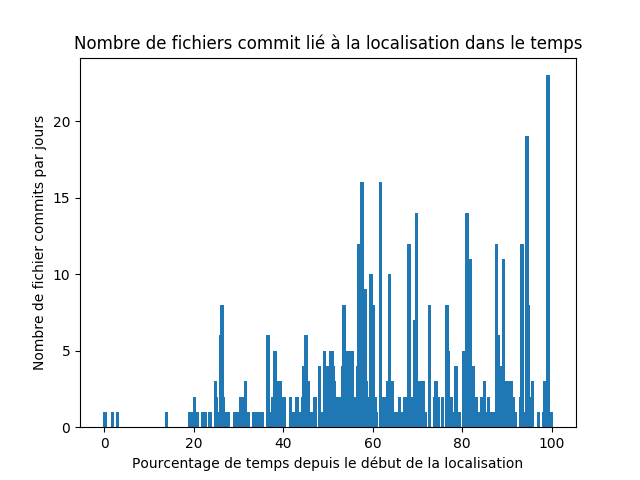
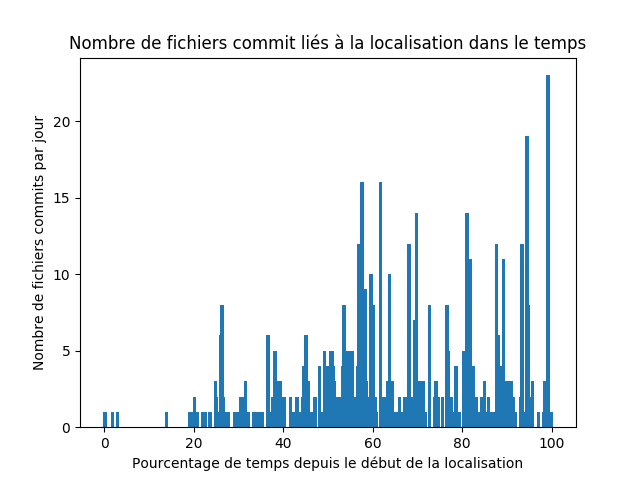
Added time analysis to the book

Changed region(s): [[0.0938, 0.0625, 0.9062, 0.125], [0.0312, 0.25, 0.0938, 0.5]]

diff --git a/gitStudy/graph_commit_time_mean.py b/gitStudy/graph_commit_time_mean.py
@@ -30,7 +30,7 @@ def parseDate(text):
 
 def parse():
     repositories = dict()
-    with open("./output/edition_dates_stared.txt") as dates_file:
+    with open("./output/edition_dates.txt") as dates_file:
         currentRepo = dict()
         currentFile = None
         for line in dates_file:
@@ -82,10 +82,10 @@ for i in tqdm(range(101)):
 
 # counts = {key:counts[key] for key in tqdm(counts,desc="Filtering") if counts[key]<1000}
 counts = mean_counts
-plt.title("Nombre moyen de fichier commit lié a la localisation dans le temps")
+plt.title("Nombre moyen de fichiers commit lié a la localisation dans le temps ")
 plt.xlabel("Pourcentage de temps depuis le début de la localisation")
-plt.ylabel("Nombre de fichier moyen commits par pourcent")
+plt.ylabel("Nombre moyen de fichiers commits par pourcent")
 plt.bar(counts.keys(),counts.values())
-plt.savefig("moyenne_commit_lie_a_la_localisation_dans_le_temps_star")
+plt.savefig("moyenne_commit_lie_a_la_localisation_dans_le_temps")
 plt.show()
 

diff --git a/gitStudy/graph_commit_time.py b/gitStudy/graph_commit_time.py
@@ -27,7 +27,7 @@ def parseDate(text):
 
 def parse():
     repositories = dict()
-    with open("./output/edition_dates_stared.txt") as dates_file:
+    with open("./output/edition_dates.txt") as dates_file:
         currentRepo = dict()
         currentFile = None
         for line in dates_file:
@@ -69,10 +69,10 @@ for rep in tqdm(repositories,desc="Counting"):
     counts.update(rep_counts)
 counts = {key:counts[key] for key in tqdm(counts,desc="Filtering") if counts[key]<1000}
 
-plt.title("Nombre de fichiers commit lié à la localisation dans le temps")
+plt.title("Nombre de fichiers commit liés à la localisation dans le temps")
 plt.xlabel("Pourcentage de temps depuis le début de la localisation")
-plt.ylabel("Nombre de fichier commits par jours")
+plt.ylabel("Nombre de fichiers commits par jour")
 plt.bar(counts.keys(),counts.values())
-plt.savefig("commit_lie_a_la_localisation_dans_le_temps_star")
+plt.savefig("commit_lie_a_la_localisation_dans_le_temps")
 plt.show()
 

diff --git a/book/model2020.md b/book/model2020.md
@@ -157,11 +157,37 @@ Avec ces valeurs, si on observe que la branche maximale a la même valeur que ma
 
 Nous avons également souhaité étudier la répartition des commits en fonction des auteurs : si le commit a été fait par un humain ou par Weblate. 
 Nous avons donc réalisé un digramme en boite à moustaches du pourcentage de répartion de commits de localisation réalisé par Weblate sur tous les projets. 
+
 ![](../assets/localisation/graph_moyenne.png)
+
 La moyenne est à 50%, le minimum est à 0% et le maximum à 95%. Cela représente donc un grand écart type. 
 
 Nous sommes encore une fois surpris d'avoir la moitié des commits de localisation réalisés par des humains, car nous attendions à un pourcentage
 assez faible, compte tenu de l'automatisation des commits par Weblate.
+
+Enfin nous avons souhaité analyser la répartition des commits dans le temps.
+Pour cela nous avons compté le nombre de commits lié a la localisation a chaque date de chaque projet, et fait en sorte
+de normaliser les comptes sur une echelle de 0 à 100, à 0 étant le premier commits detecté, à 100 le dernier detecté.
+Cela nous donnants le graphique suivant.
+
+![](../assets/localisation/commit_lie_a_la_localisation_dans_le_temps.png)
+
+On voit donc une répartition relativement disparate après une période de tampons où les projet ne versionne pas de travail lié a la localisation. 
+Et cela que ce soit sur les projet selectioné à travers weblate ou les projets applicant la l10n parmis les 1000 plus populaire sur github 
+représenté ci dessous:
+
+![](../assets/localisation/commit_lie_a_la_localisation_dans_le_temps_star.png)
+
+Afin de chercher a exclure les phénomène ponctuelle de commit massifs qui pourrait être effectué sur certain projets
+nous avons grapher la moyenne du nombre de fichiers versioné par pourcentage de temps écoulé, a nouveau pour les deux ensembles de projets
+ ![](../assets/localisation/moyenne_commit_lie_a_la_localisation_dans_le_temps.png)
+ ![](../assets/localisation/moyenne_commit_lie_a_la_localisation_dans_le_temps_star.png)
+ 
+Nous voyons alors un nombre de commits beaucoup plus omogène au cours du temps, a nouveau quelque soit l'échantillons de projets.
+
+Nous pouvons donc voir que les projets tendent en moyenne a avoir une activité constante, cependant parsemé de grand nombre de fichiers commits d'un coup.
+Cela pouvant  
+
 
 ## VII. Conclusion 
 
